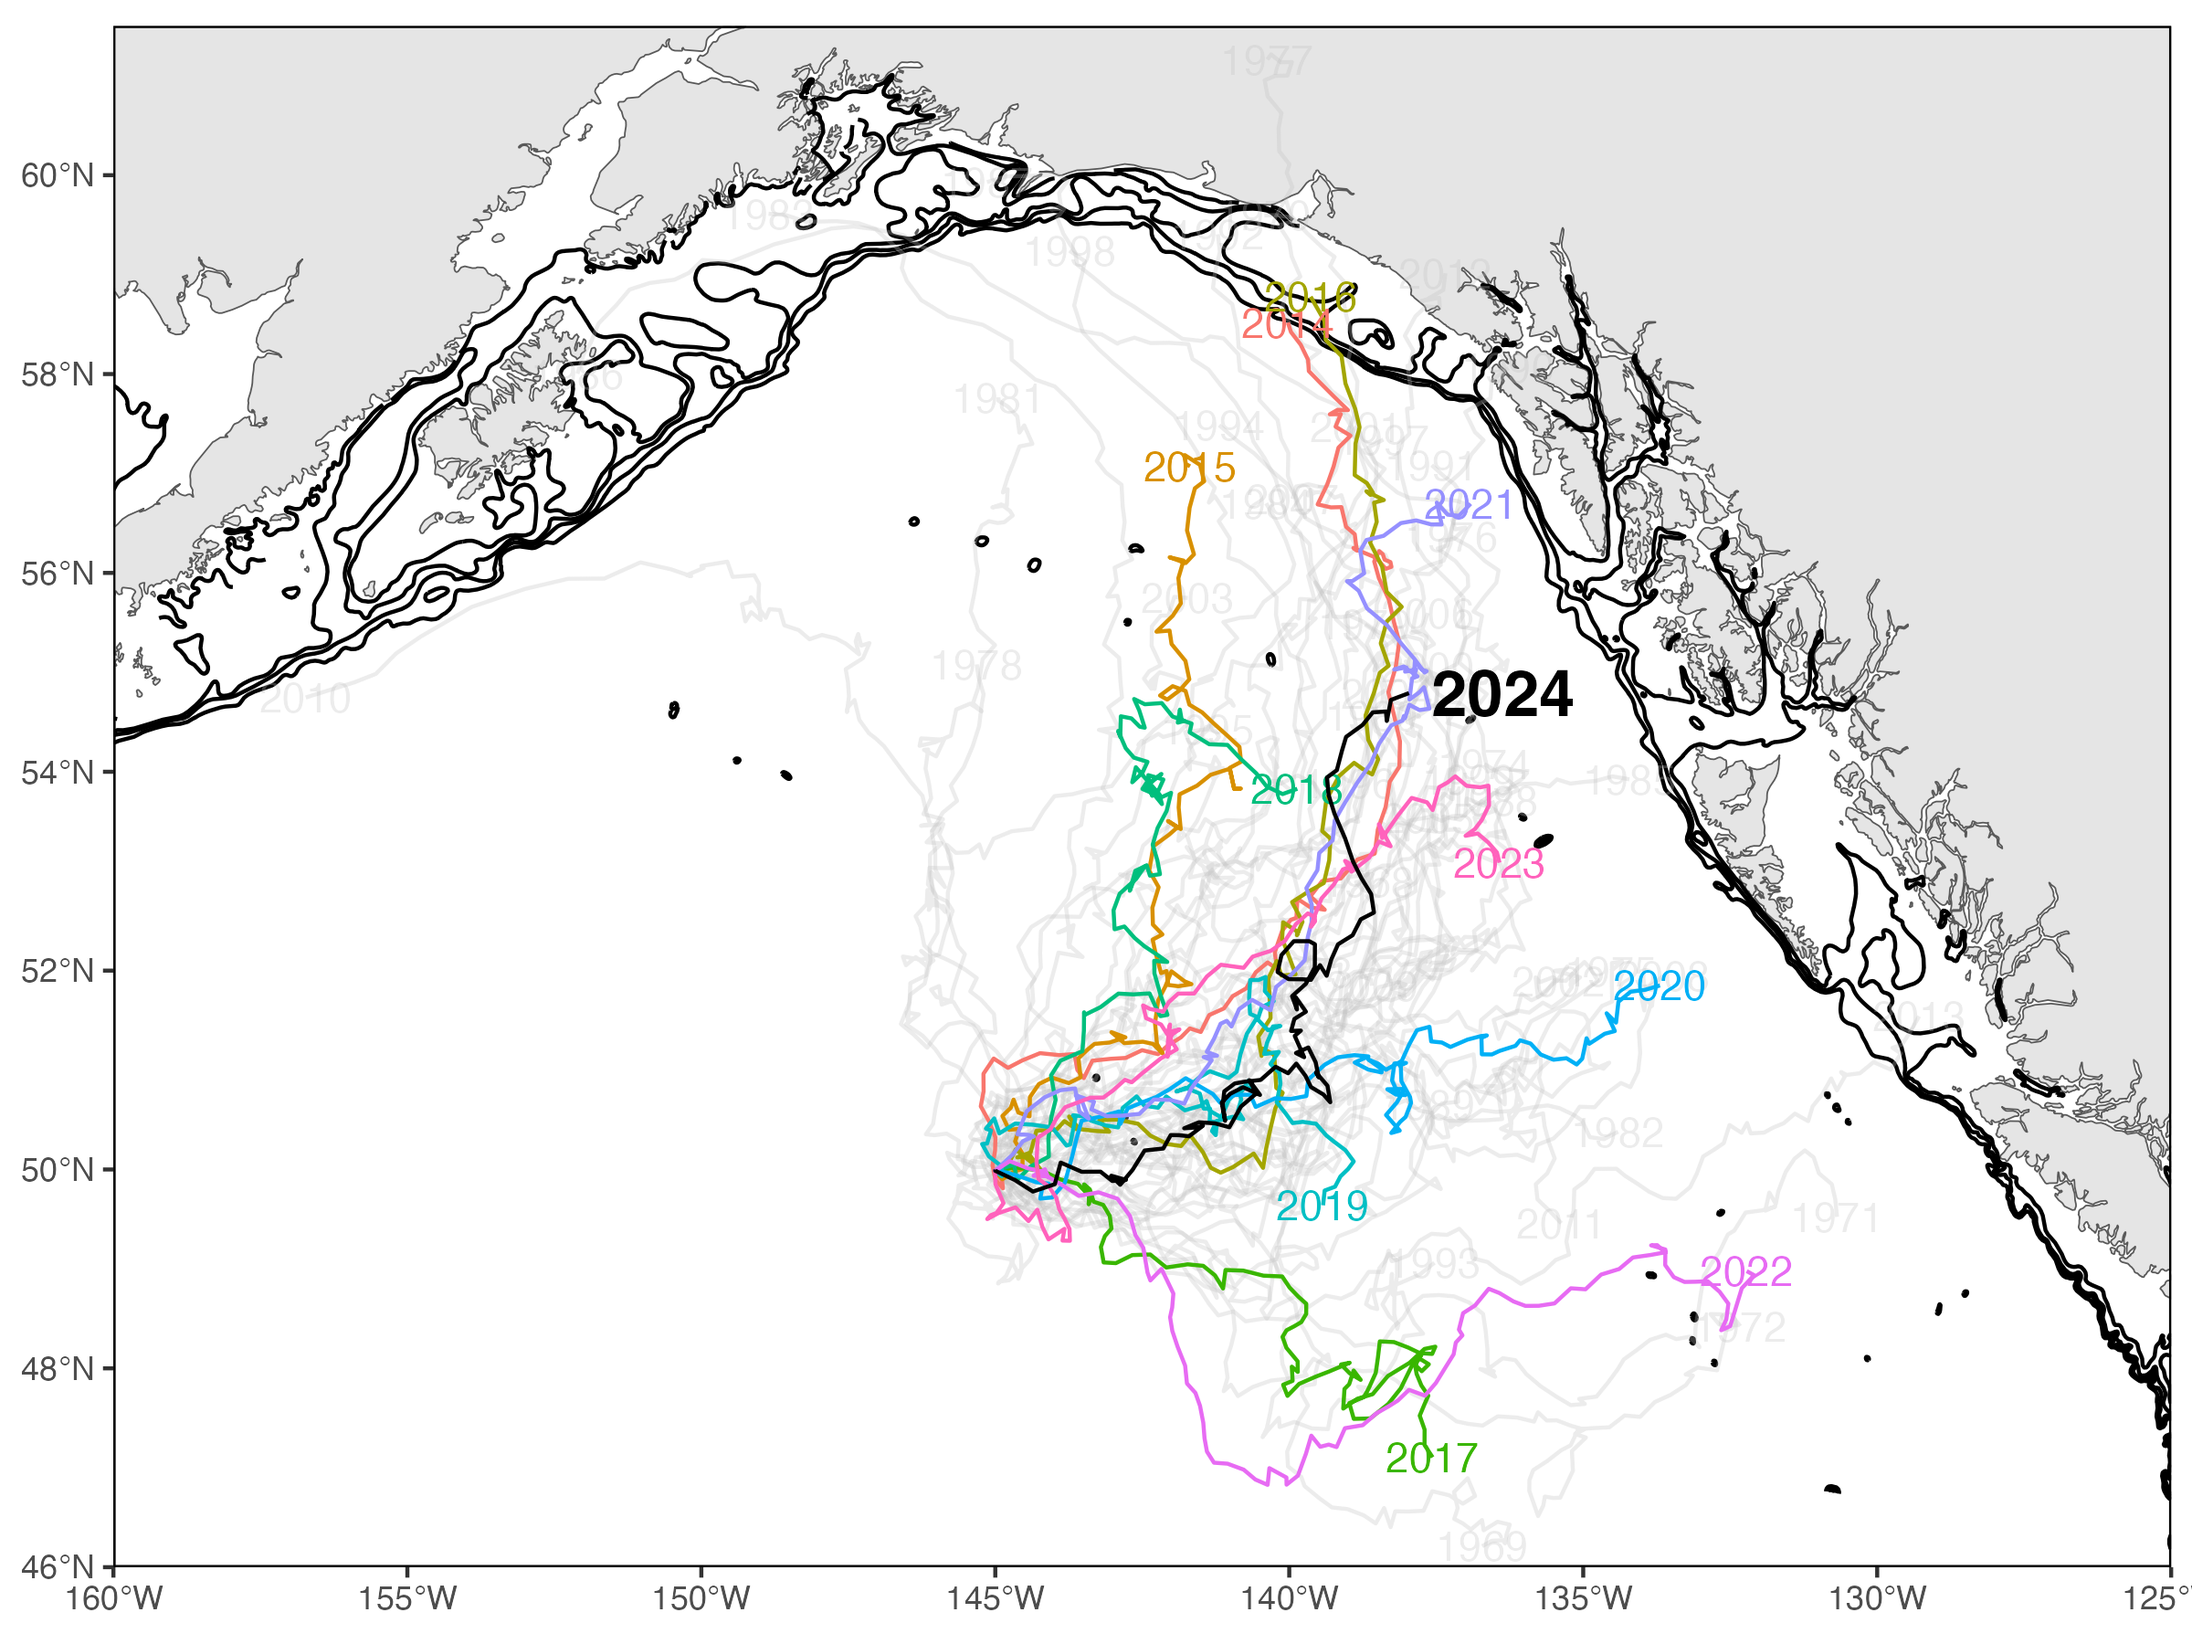
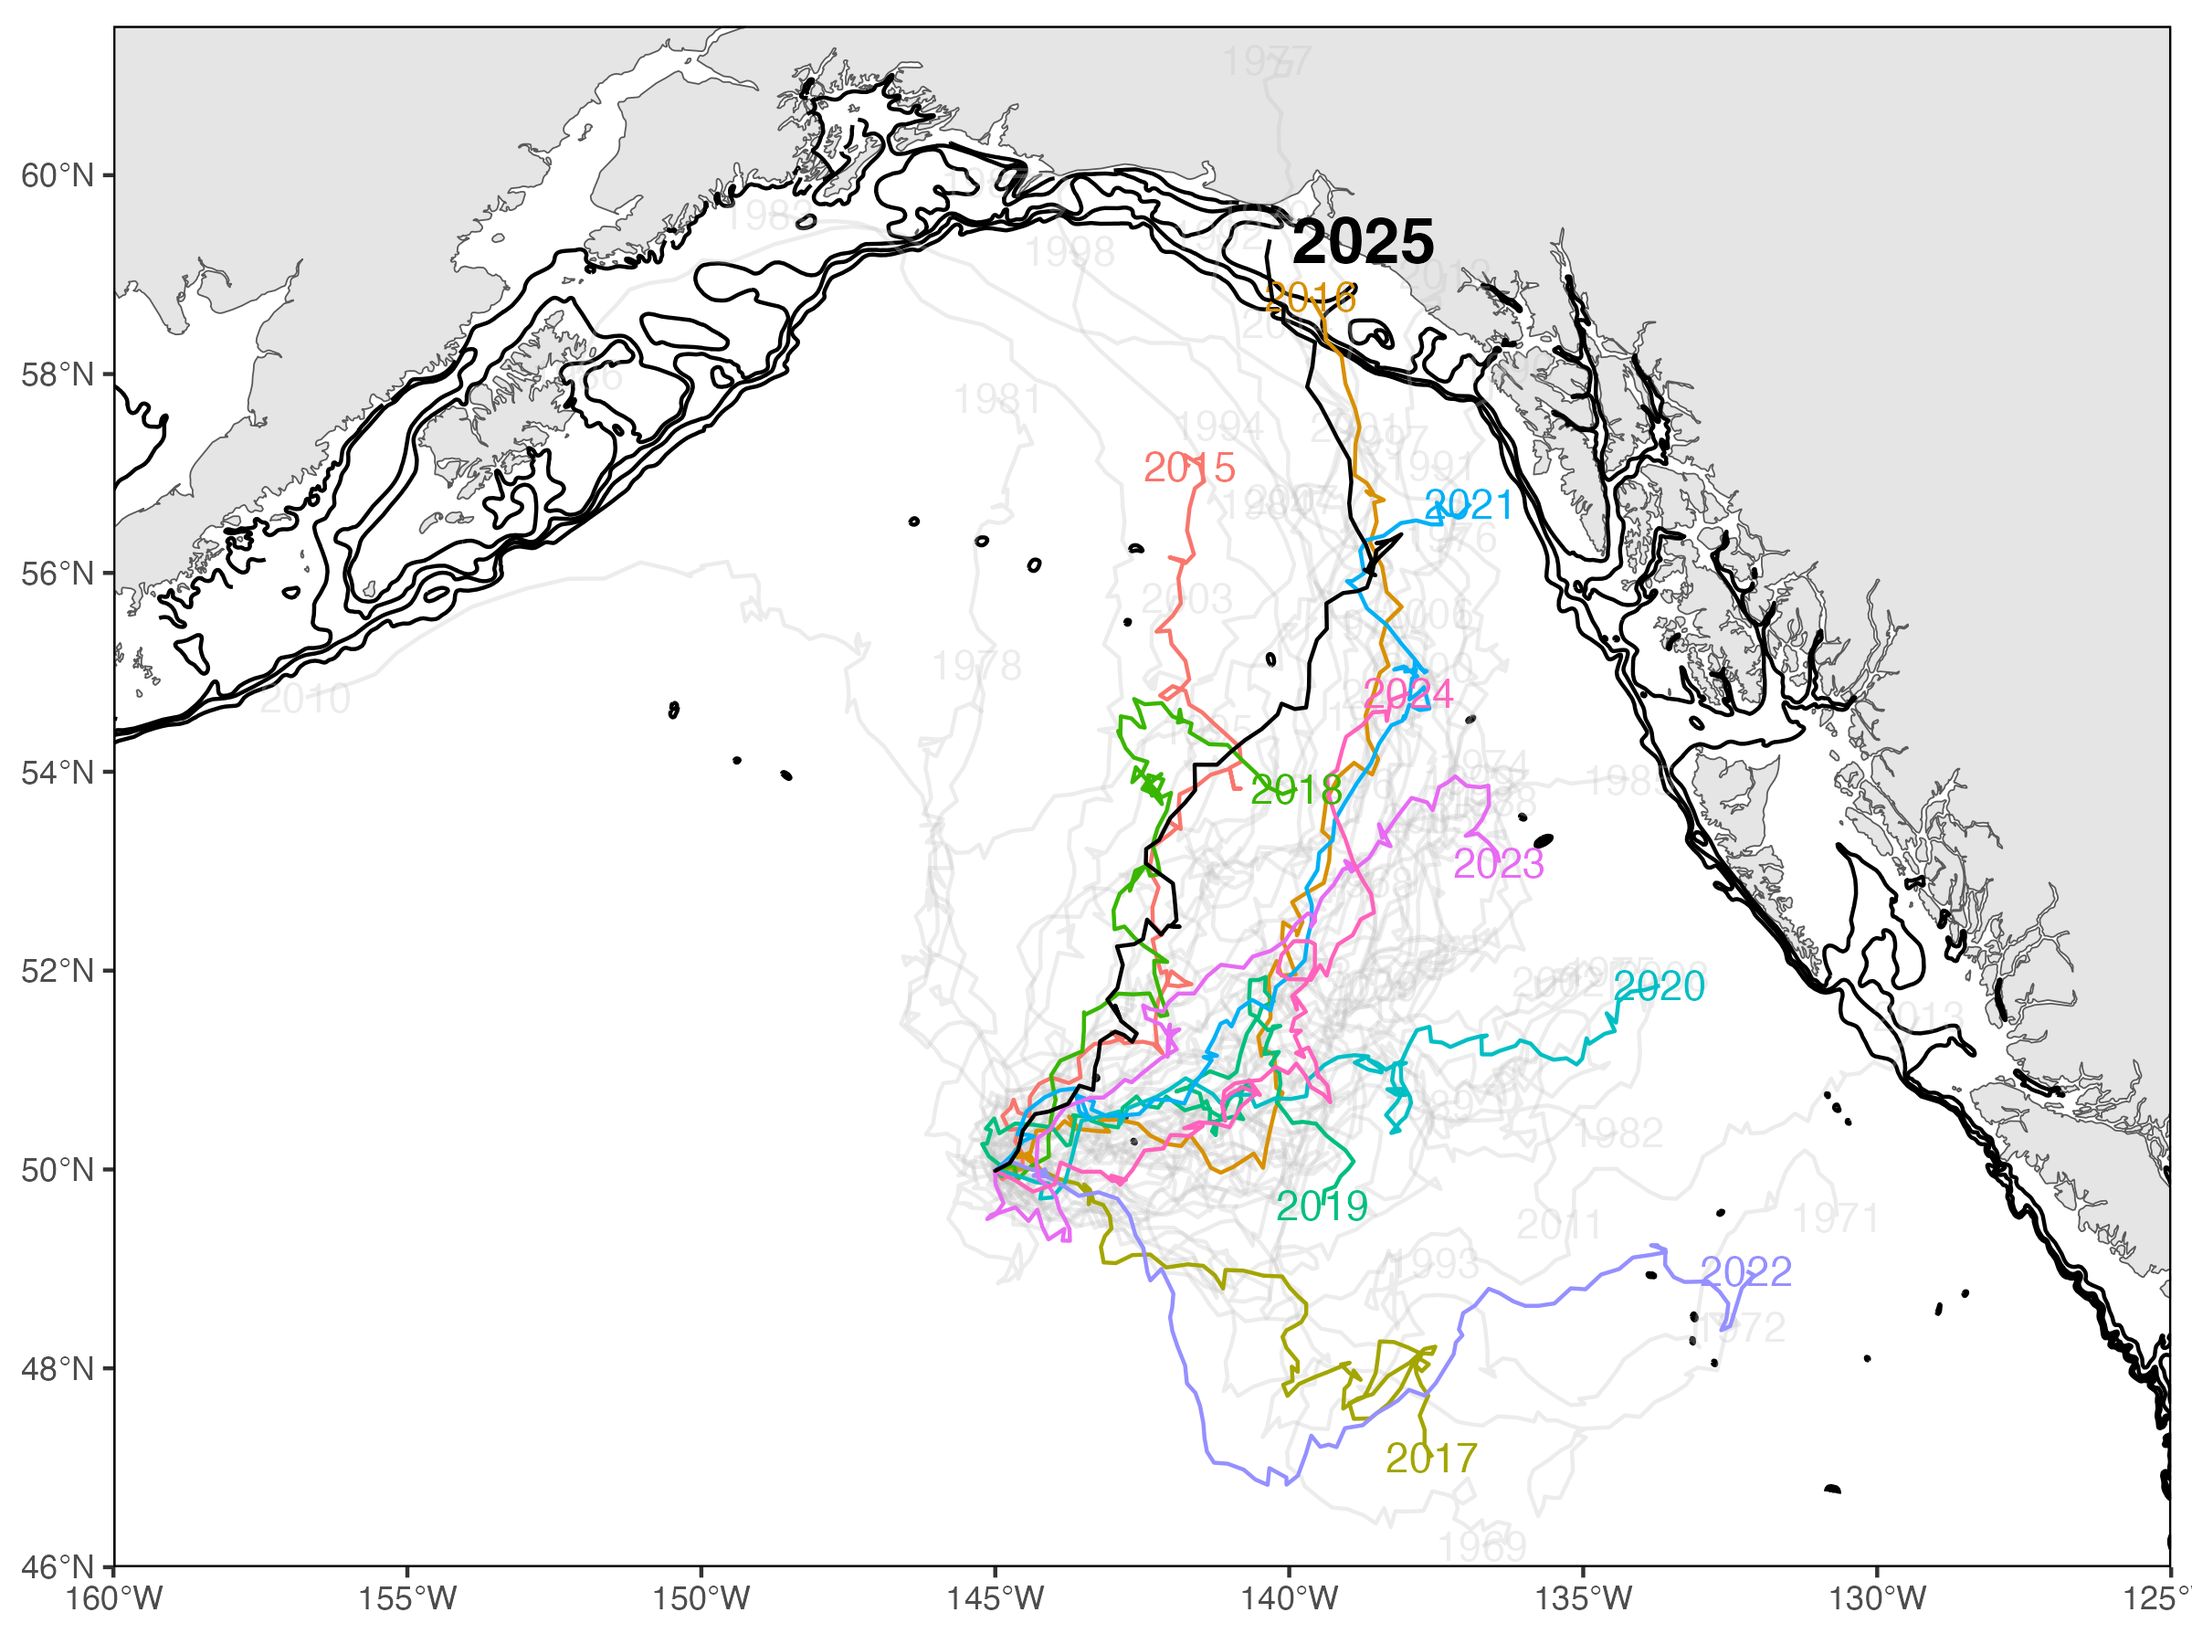
Updated README.md fr 2025.

diff --git a/README.md b/README.md
@@ -1,22 +1,22 @@
 # PAPA_Trajectory_Index
 
-Repo for PAPA Trajectory Index code and results.
+Repository for PAPA Trajectory Index code and results.
 
 ## Introduction
 
-The year-to-year variability in near-surface water movements in the North Pacific Ocean has been shown to have important effects on the survival of walleye pollock (*Theragra chalcogramma*) by affecting its spatial overlap with predators (Wespestad2000), as well as to influence recruitment success of winter spawning flatfish in the eastern Bering Sea (EBS; Wilderbuer2002). The PAPA Trajectory Index (PTI) provides an annual index reflecting broad-scale winter circulation in the northeast Pacific Ocean and Gulf of Alaska based on the 
-end location of a simulated surface drifter released on December 1 and tracked for 90 days (i.e., ending on February 29 or March 1 of the subsequent year,
-dependent on whether the ending year is a leap year or not), based on the trajectory of a simulated surface drifter released at Ocean Station Papa (50^o^N, 145^o^W). The simulation for each year is conducted using the “Ocean Surface CURrent Simulator” (OSCURS; http://oceanview.pfeg.noaa.gov/oscurs). Using daily gridded atmospheric pressure fields, OSCURS calculates the speed and direction of water movement at the ocean’s surface at the location of a simulated surface drifter. It uses this information to update the position of the simulated drifter on a daily basis over a specified time period. For the index presented here, OSCURS was run for 90 days to simulate a surface drifter released at Ocean Station Papa on December 1 for each year from 1901 to the current 2024.
+The year-to-year variability in near-surface water movements in the North Pacific Ocean has been shown to have important effects on the survival of walleye pollock (*Theragra chalcogramma*) by affecting its spatial overlap with predators (Wespestad2000), as well as to influence recruitment success of winter spawning flatfish in the eastern Bering Sea (EBS; Wilderbuer2002). The PAPA Trajectory Index (PTI) provides an annual index reflecting broad-scale winter circulation in the northeast Pacific Ocean and Gulf of Alaska based on the end location of a simulated surface drifter released on December 1 and tracked for 90 days (i.e., ending on February 29 or March 1 of the subsequent year, dependent on whether the ending year is a leap year or not), based on the trajectory of a simulated surface drifter released at Ocean Station Papa (50^o^N, 145^o^W). The simulation for each year is conducted using the “Ocean Surface CURrent Simulator” (OSCURS; http://oceanview.pfeg.noaa.gov/oscurs). Using daily gridded atmospheric pressure fields, OSCURS calculates the speed and direction of water movement at the ocean’s surface at the location of a simulated surface drifter. It uses this information to update the position of the simulated drifter on a daily basis over a specified time period. For the index presented here, OSCURS was run for 90 days to simulate a surface drifter released at Ocean Station Papa on December 1 for each year from 1901 to the current 2025.
 
 The PTI itself is based on the ending latitude of the simulated drifter in each year. Filtered PTI values greater than the long-term mean are indicative of increased transport and/or a northerly shift in the Alaska Current, which transports warm water northward along the west coast of Canada and southeast Alaska from the south and consequently plays a major role in the Gulf of Alaska’s heat budget. Interdecadal changes in the PTI reflect changes in ocean climate that appear to have widespread impacts on biological variability at multiple trophic levels (King2005). There is strong evidence that the productivity and possibly the carrying capacity of the Alaska Gyre and of the continental shelf were enhanced during the “warm” regime that began in 1977. Zooplankton production was positively affected after the 1977 regime shift (Brodeur1992), as were recruitment and survival of salmon and demersal fish species. Recruitment of rockfish (Pacific ocean perch) and flatfish (arrowtooth flounder, halibut, and flathead sole) also increased. However, shrimp and forage fish such as capelin were negatively affected by the 1977 shift (Anderson2003). The reduced availability of forage fish may have contributed to the decline in marine mammal and seabird populations observed after the 1977 shift (Piatt1996). 
 
 
 ## Curent Results 
 
-The following shows the drifter trajectories for all years since 1968: trajectories older than 10 years are in grey, trajectories during the last 10 years are in color, and the trajectory for the previous winter is in black:
+The following shows the drifter trajectories for all years since 1968: trajectories older than 10 years are in grey, trajectories during the last 10 years are in color, and the trajectory for the previous (2024-25) winter is in black:
+
 <img src="ResultsCurrent/fig_1_mapAll.png" width="600" alt="map of all trajectories">
 
 The actual PTI is shown in the following figure:
+
 <img src="ResultsCurrent/fig_2_PTI.png" width="600" alt="graph of the PAPA Trajectory Index">
 
 
